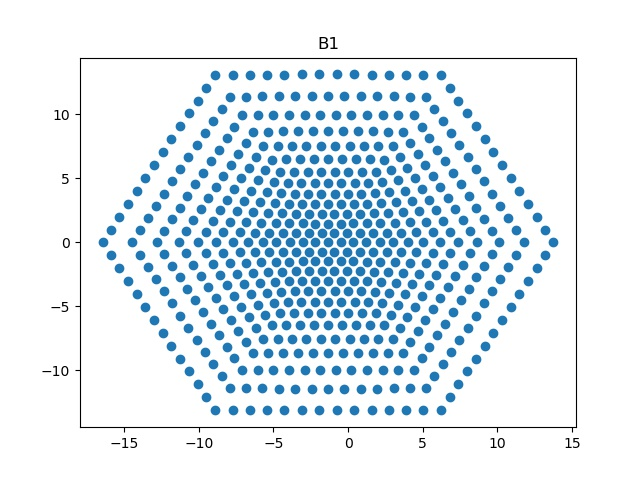
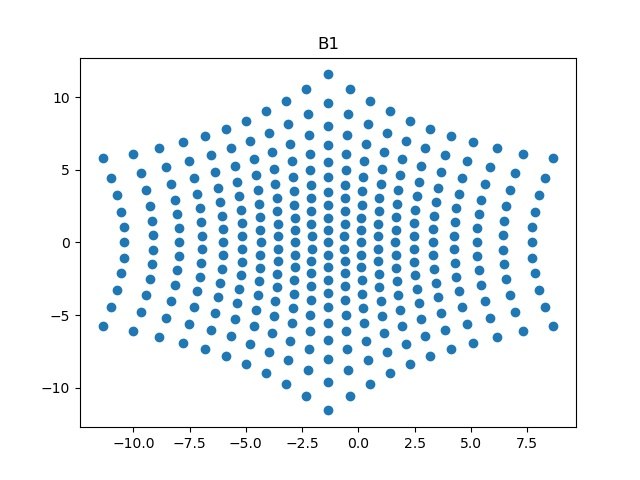
Working Reciprocal Lattice

diff --git a/src/WandSim/Projector.py b/src/WandSim/Projector.py
@@ -90,7 +90,7 @@ class Projector():
         #Projector.NoOfProjectorRays += 1
         return
 
-    def aget_lattice_distance(self):
+    def get_lattice_distance(self):
         return self.LatticeConstant * 1e-6 * np.cos(np.pi/6)
 
     def get_grating_equation_angle(self, order):
@@ -98,6 +98,12 @@ class Projector():
         angle = math.asin(order*self.wavelength/gratingdistance)
         angle = math.degrees(angle)
         return angle
+
+    def get_grating_equation_angle_lattice(self, distancefactor):
+        angle = math.asin(distancefactor*(self.wavelength / self.get_lattice_distance()))
+        #angle = math.degrees(angle)
+        return angle
+
 
     def get_ray_angle_direction(self, facets, order, suborder):
         basisangle = 360/facets
@@ -109,43 +115,89 @@ class Projector():
 
     def generate_projector_rays_using_reciprocal_lattice_method(self):
 
-        self.build_lattice(13)
+        self.build_lattice(self.gratingOrder)
         return
 
 
     def build_lattice(self, order):
-        #center = [0,0]
-        baseV1 = np.array([-1, 0])
-        #baseV2_direction = np.array([0.5, 0.866025])
-        baseV2_direction_holder = np.array([0.5, 0.866025])
+            #center = [0,0]
+            baseV1 = np.array([-1, 0])
+            #baseV2_direction = np.array([0.5, 0.866025])
+            baseV2_direction_holder = np.array([0.5, 0.866025])
 
-        #baseV3 = np.array([-0.5, 0.866025])
-        LatticeCooridnates = np.array([0, 0])
-        LatticeList = []
-        DistanceList = []
+            #baseV3 = np.array([-0.5, 0.866025])
+            LatticeCooridnates = np.array([0, 0])
+            LatticeList = []
+            DistanceList = []
+            AngleList = []
+            Zlist = []
+            DirectionList = []
+            rayList = []
 
-        LatticeList.append(LatticeCooridnates)
-
-        for i in range(1, order+1):  # create zero order column
-            baseV2_direction = baseV2_direction_holder
-            LatticeCooridnates = LatticeCooridnates+baseV1
-            for j in range(0, 6):
-                for k in range(0, i):
-                    LatticeCooridnates = LatticeCooridnates + baseV2_direction
-                    LatticeList.append(LatticeCooridnates)
-                    DistanceList.append([np.linalg.norm(LatticeCooridnates)*config["LatticeConst"]*np.pi/6])
-                    self.get_grating_equation_angle()
-                baseV2_direction = rotate_2d_vector(baseV2_direction)
-
-
-        LatticeList = np.array(LatticeList)
-        print("Lattice", len(LatticeList), LatticeList)
-        print(LatticeList[:,0])
-        plot_xy_scatter_lattice(LatticeList[:,0], LatticeList[:,1], LatticeList[:,0], LatticeList[:,1])
-        print("Distance", len(DistanceList), DistanceList)
+            LatticeList.append(LatticeCooridnates)
+            DistanceFactor = np.linalg.norm(LatticeCooridnates)
+            DistanceList.append([DistanceFactor])
+            AngleList.append(self.get_grating_equation_angle_lattice(DistanceFactor))
+            Zlist.append(-1)
+            direction = np.array([0,0,-1])
+            rayList.append(Ray(self.center, direction, 1, self, 0, 0, 0))
 
 
-        return
+            for i in range(1, order+1):  # create zero order column
+                baseV2_direction = baseV2_direction_holder
+                LatticeCooridnates = LatticeCooridnates+baseV1
+                for j in range(0, 6):
+                    for k in range(0, i):
+                        LatticeCooridnates = LatticeCooridnates + baseV2_direction
+                        LatticeList.append(LatticeCooridnates)
+                        DistanceFactor = np.linalg.norm(LatticeCooridnates)
+                        DistanceList.append([DistanceFactor])
+                        AngleList.append(self.get_grating_equation_angle_lattice(DistanceFactor))
+                        Zvalue = -DistanceFactor/math.tan(self.get_grating_equation_angle_lattice(DistanceFactor))
+                        Zlist.append(Zvalue)
+
+                        holder = np.append(LatticeCooridnates, Zvalue)
+                        factor = np.linalg.norm(holder)
+                        direction = holder / factor
+
+                        DirectionList.append(direction)
+
+                        rayList.append(Ray(self.center, direction, 1, self, i, j, k))
+
+                        #self.get_grating_equation_angle()
+                    baseV2_direction = rotate_2d_vector(baseV2_direction)
+
+
+            for index in range(len(Zlist)):
+                holder = np.append(LatticeList[index], Zlist[index])
+                factor = np.linalg.norm(holder)
+                direction = holder/factor
+                DirectionList.append(direction)
+            #print(np.append(LatticeList[index],Zlist[index]))
+
+
+
+            LatticeList = np.array(LatticeList)
+            print("Lattice", len(LatticeList), LatticeList)
+            print("Distance", len(DistanceList), DistanceList)
+            print("Angle", len(AngleList), AngleList)
+            print("Zlist", len(Zlist), Zlist)
+            print("DirectionList", len(DirectionList), DirectionList)
+            print("Raylist", len(rayList), rayList)
+            plot_xy_scatter_lattice(LatticeList[:,0], LatticeList[:,1], LatticeList[:,0], LatticeList[:,1])
+
+            for ray in rayList:
+                ray.Direction = np.matmul(get_rotation_matrix(self.rotationDirection[0], self.rotationDirection[1],
+                                                              self.rotationDirection[2] - 30), ray.Direction)
+
+            self.ProjectorRayList = rayList
+            Projector.AllProjectorRaysList.extend(rayList)
+            self.NoOfProjectorRays = len(rayList)
+            Projector.NoOfProjectorRays = len(rayList)
+
+            # plot_scatter(self.projectorName, finaldirections)
+            print(self)
+            return rayList
 
 
     def build_first_hextant(self, order):
@@ -198,19 +250,10 @@ class Projector():
         directionlist.extend(newdirectionlist)                           # full direction list of a single projector
         raylist.extend(newraylist)
 
-        # OnemmSurface = Surface("OneMMSurface", (0, 0, -1), (0, 0, 1))
-        #
-        # ray.ray_surface_intersection(OnemmSurface)
-
-
-        rotateddirectionlist = [np.matmul(raydirection, get_rotation_matrix(0, 0, -30)) for raydirection in directionlist]
-        #rotatedraylist = [ray.Direction = (np.matmul(ray.Direction, get_rotation_matrix(self.rotationDirection[0], self.rotationDirection[1], self.rotationDirection[2]-30))) for ray in raylist]
-
         for ray in raylist:
             ray.Direction = np.matmul(get_rotation_matrix(self.rotationDirection[0], self.rotationDirection[1], self.rotationDirection[2]-30),ray.Direction)
 
-        npraylist = np.vstack(rotateddirectionlist)
-        nplist = np.unique(npraylist, axis=0)
+
         self.ProjectorRayList = raylist
         Projector.AllProjectorRaysList.extend(raylist)
         self.NoOfProjectorRays = len(raylist)

diff --git a/src/WandSim/Ray.py b/src/WandSim/Ray.py
@@ -20,7 +20,7 @@ class Ray():
     RayPathDistance = 0
     #RayStoryCoordinates = np.array(0)
 
-    def __init__(self, _origin=None, _direction=None, _amplitude=None, _parentsource=None, _Iindex = None, _Jindex = None):
+    def __init__(self, _origin=None, _direction=None, _amplitude=None, _parentsource=None, _Iindex = None, _Jindex = None, _Kindex = None):
 
         self.Origin = np.array([0, 0, 0]) if _origin is None else np.array([_origin[0], _origin[1], _origin[2]])
         self.Direction = np.array([0, 0, 0]) if _direction is None else np.array([_direction[0], _direction[1], _direction[2]])
@@ -30,6 +30,7 @@ class Ray():
         self.EventRegister = 'NoName' if _parentsource is None else _parentsource
         self.IndexI = _Iindex
         self.IndexJ = _Jindex
+        self.IndexK = _Kindex
         self.RayStoryCoordinates = []
         self.RayStory = []
         self.RayrefractiveIndexList = []

diff --git a/src/WandSim/WandSimulatorManager.py b/src/WandSim/WandSimulatorManager.py
@@ -96,9 +96,9 @@ def propagate_rays_through_system(Projector, windowsList, reflectiveSurface, pro
 
     propagate_rays_to_reflective_surface(windowsList, reflectiveSurface, projectorList)
 
-    #plot_projector_ray_locations_scatter(projectorList[0])
+    plot_projector_ray_locations_scatter(projectorList[0])
 
-    #propagate_rays_back_to_cameras(cameraList, windowsList)
+    propagate_rays_back_to_cameras(cameraList, windowsList)
     return
 
 
